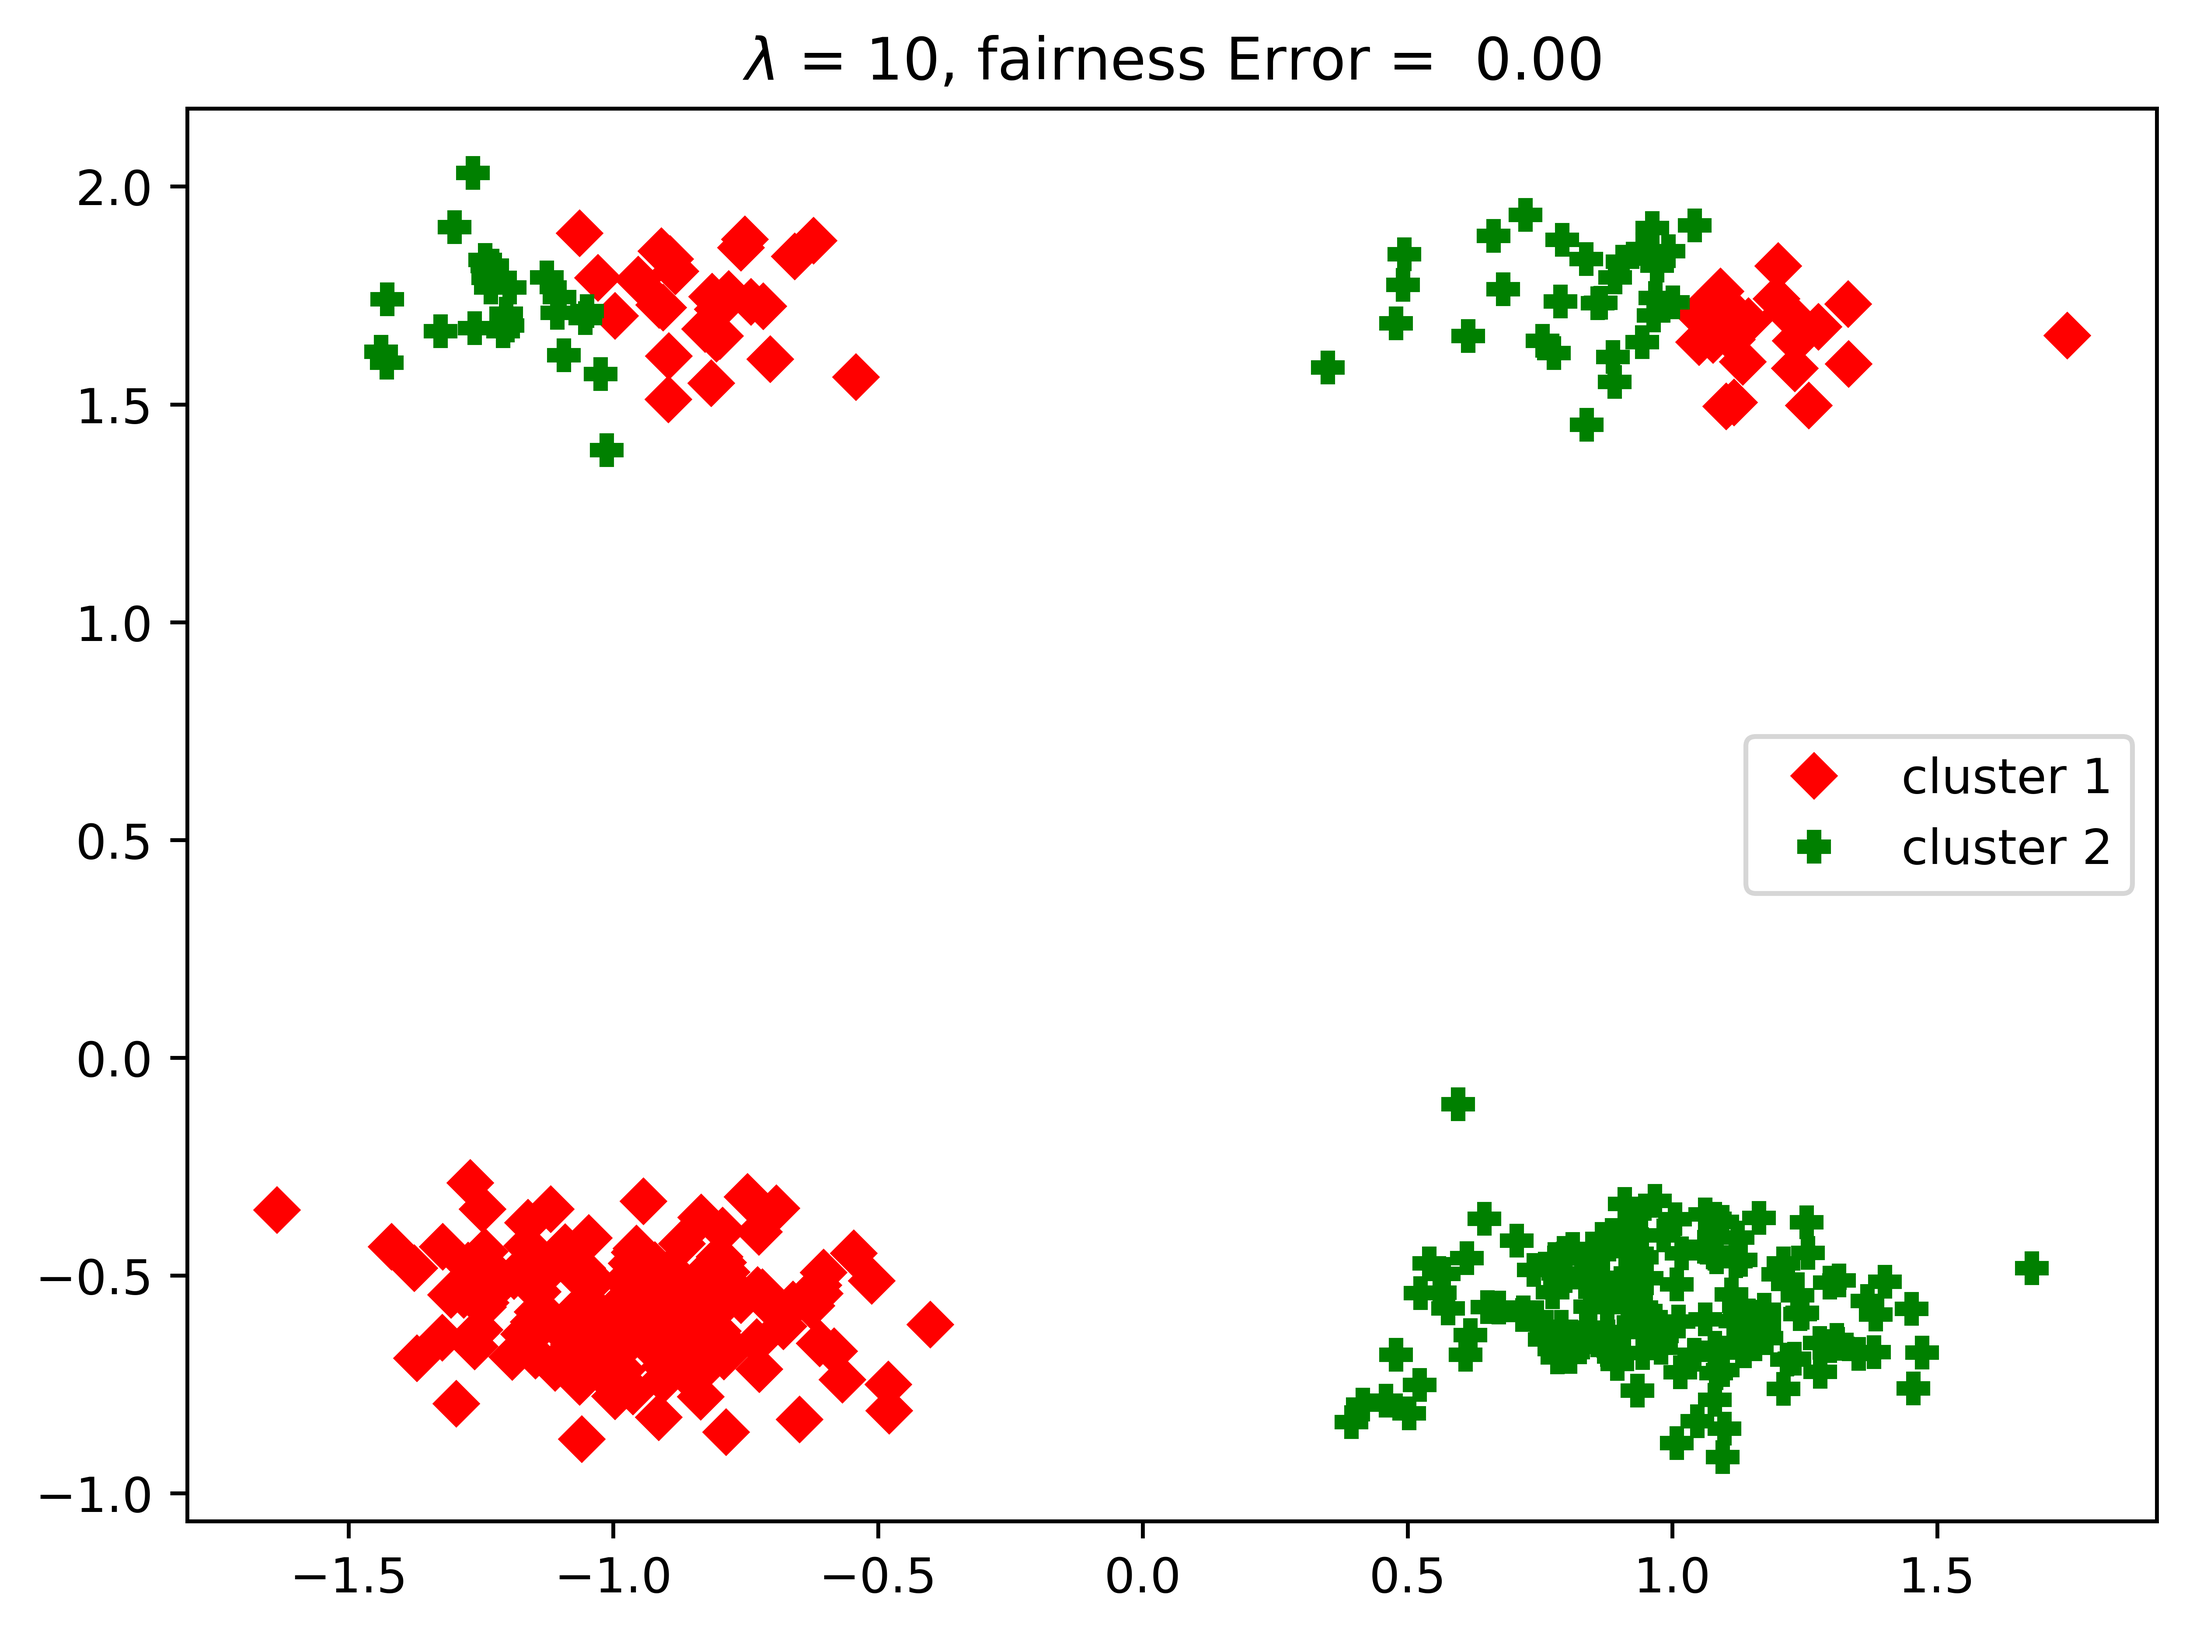
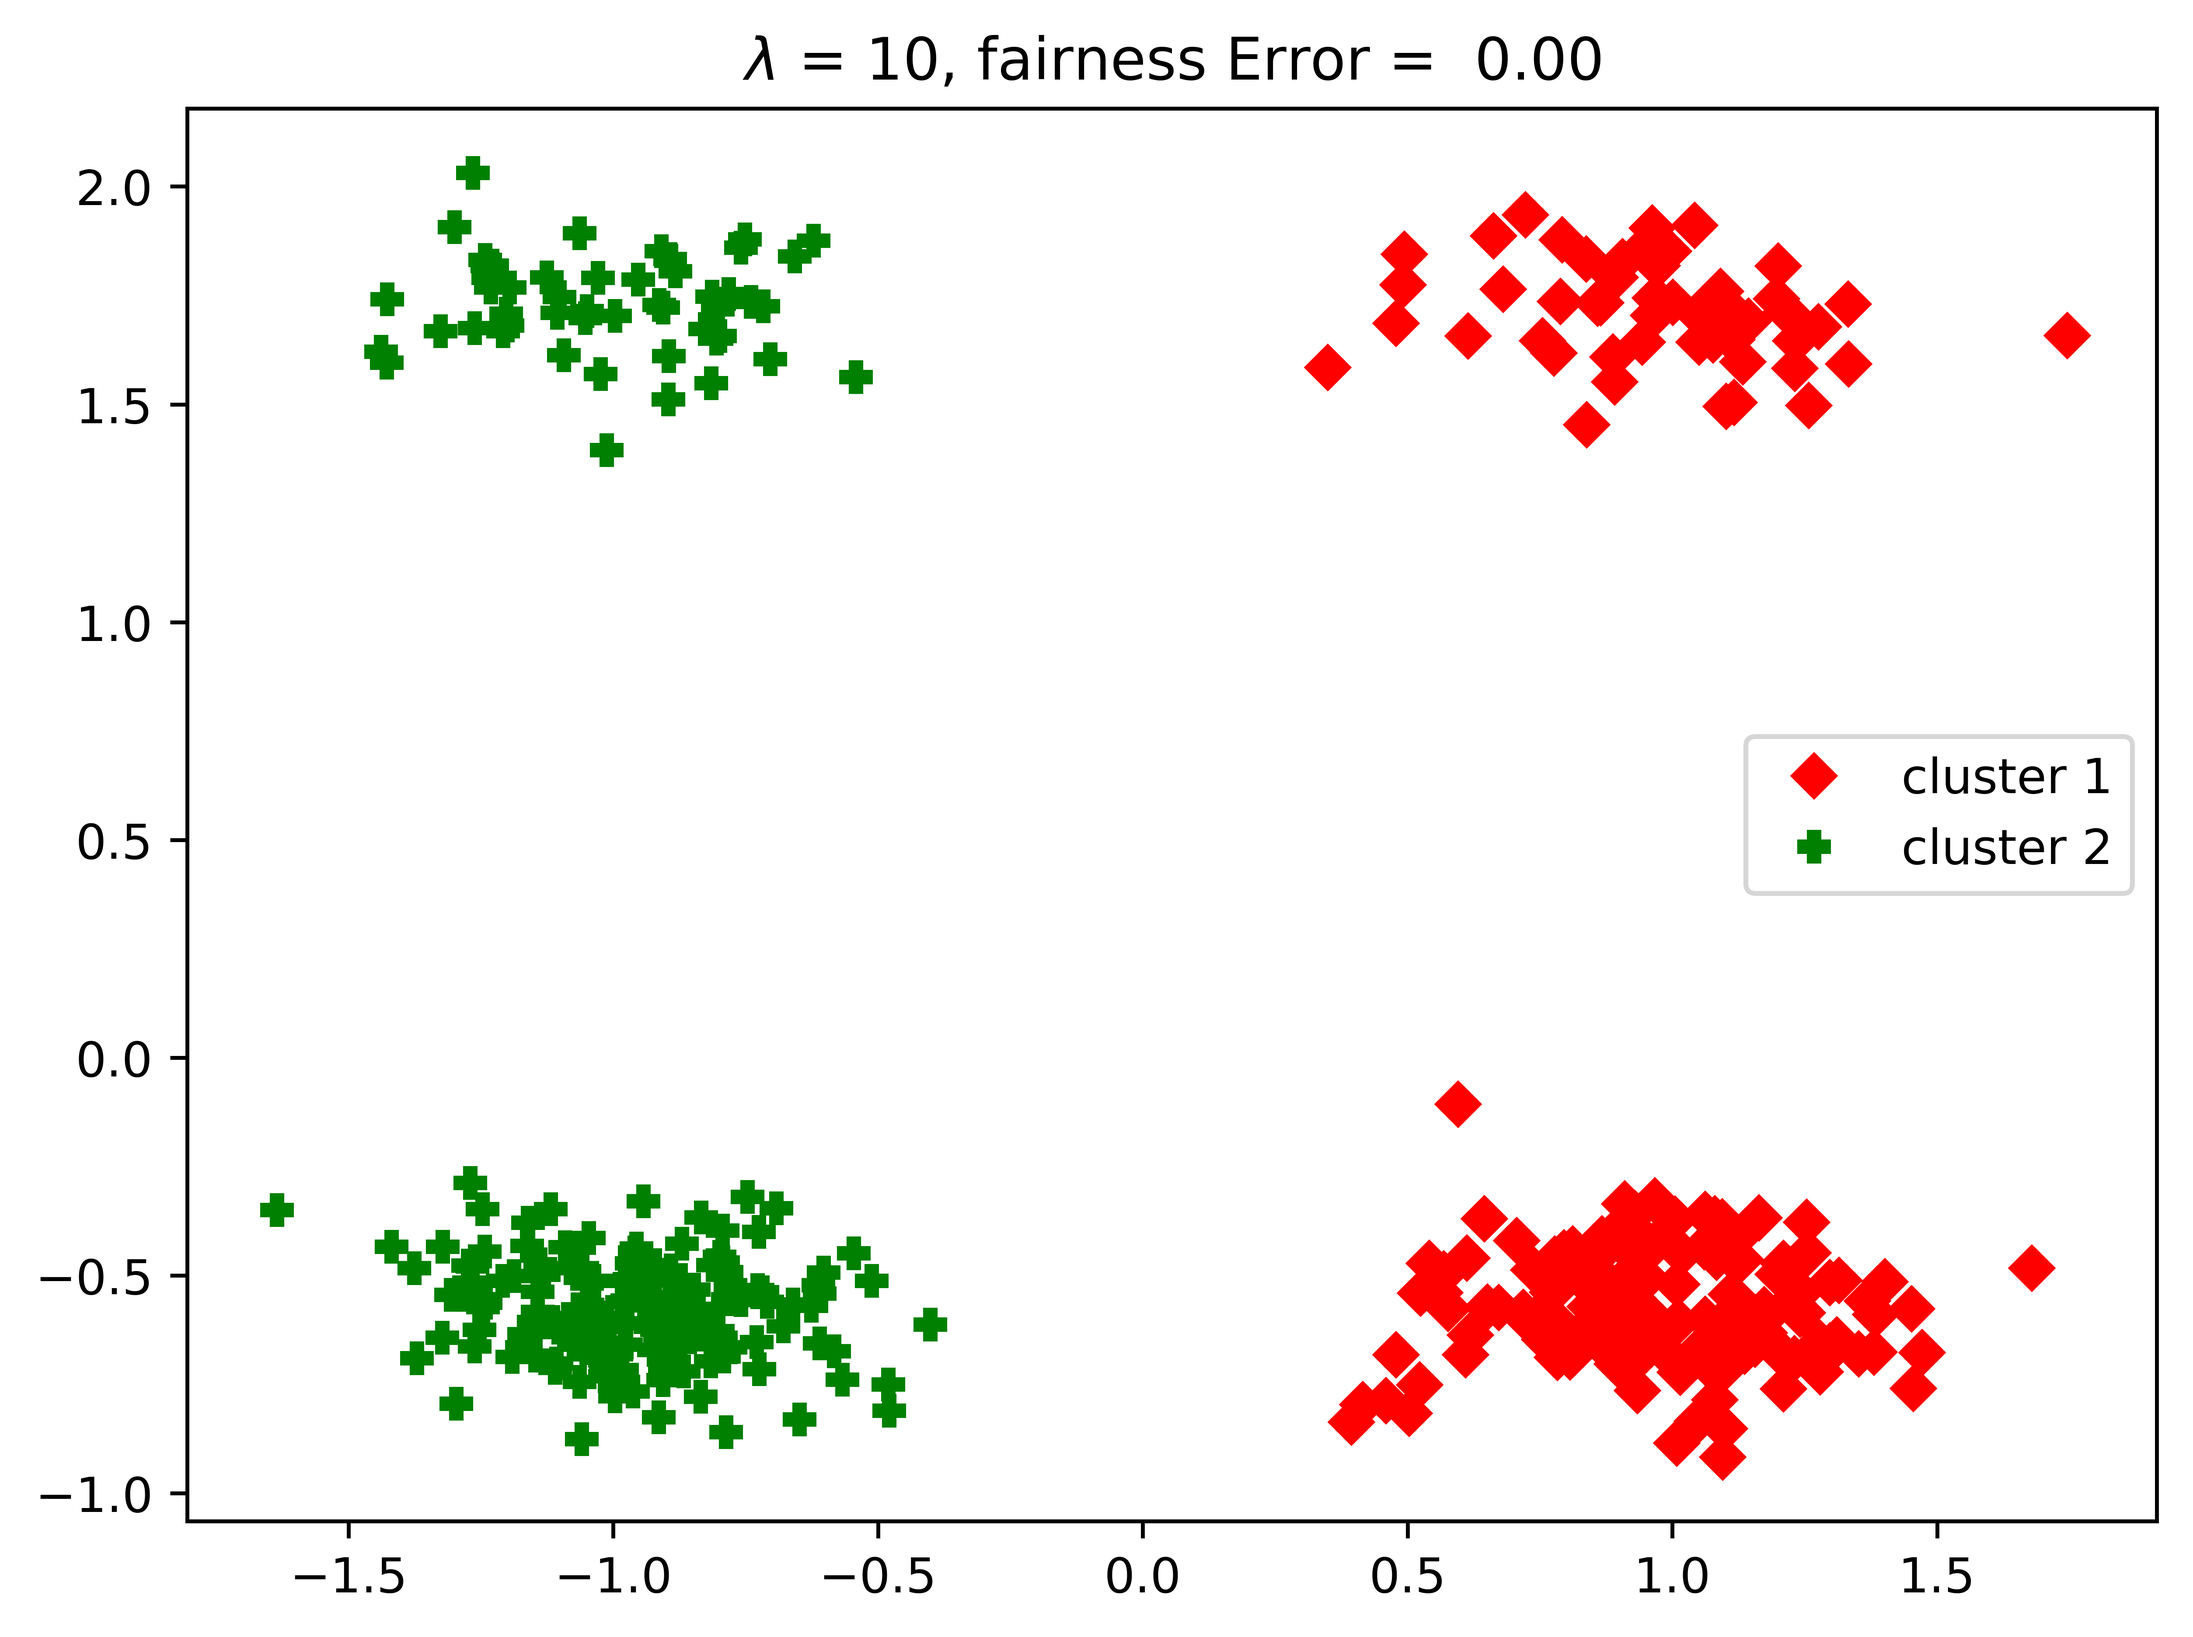
fixed seeding issue, now getting different results with different seeds; emptied csv results file;

diff --git a/test_fair_clustering.py b/test_fair_clustering.py
@@ -16,13 +16,12 @@ from data_visualization import plot_clusters_vs_lambda, plot_fairness_vs_cluster
     plot_balance_vs_clusterE
 import random
 
-def main(args, logging=True):
+def main(args, logging=True, seedable=False):
     if args.seed is not None:
         np.random.seed(args.seed)
         random.seed(args.seed)
 
         print(f"Seed: {args.seed}")
-        print(f"random number: {random.random()}")
 
     ## Options
     dataset = args.dataset
@@ -118,10 +117,11 @@ def main(args, logging=True):
             A = utils.create_affinity(X, knn, W_path=affinity_path)
 
     init_C_path = osp.join(data_dir, '{}_init_{}_{}.npz'.format(dataset, cluster_option, K))
-    if not osp.exists(init_C_path):
+    if seedable:
         print('Generating initial seeds')
         C_init, l_init = km_init(X, K, 'kmeans_plus')
-        np.savez(init_C_path, C_init=C_init, l_init=l_init)
+        if not osp.exists(init_C_path):
+            np.savez(init_C_path, C_init=C_init, l_init=l_init)
 
     else:
         temp = np.load(init_C_path)

diff --git a/src/fair_clustering.py b/src/fair_clustering.py
@@ -169,7 +169,6 @@ def km_init(X, K, C_init, l_init= None):
     """
     Initial seeds
     """
-    print(f"RANDOM NUMBER: {random()}\n{np.random.random(1)}")
     if isinstance(C_init,str):
 
         if C_init == 'kmeans_plus':
